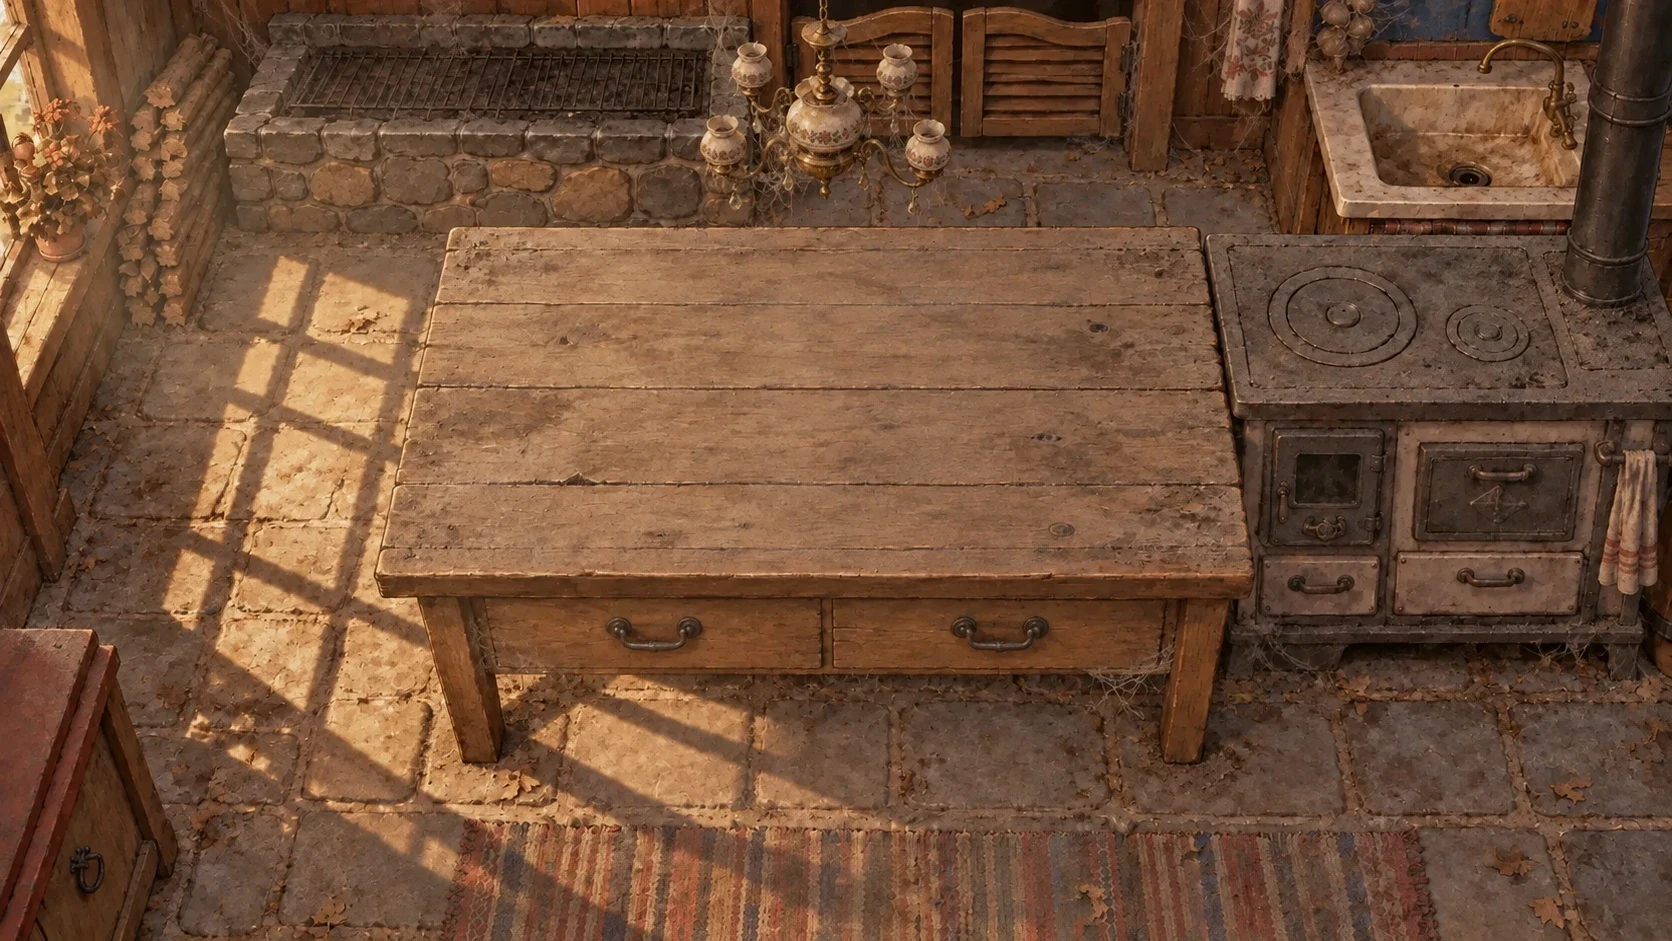
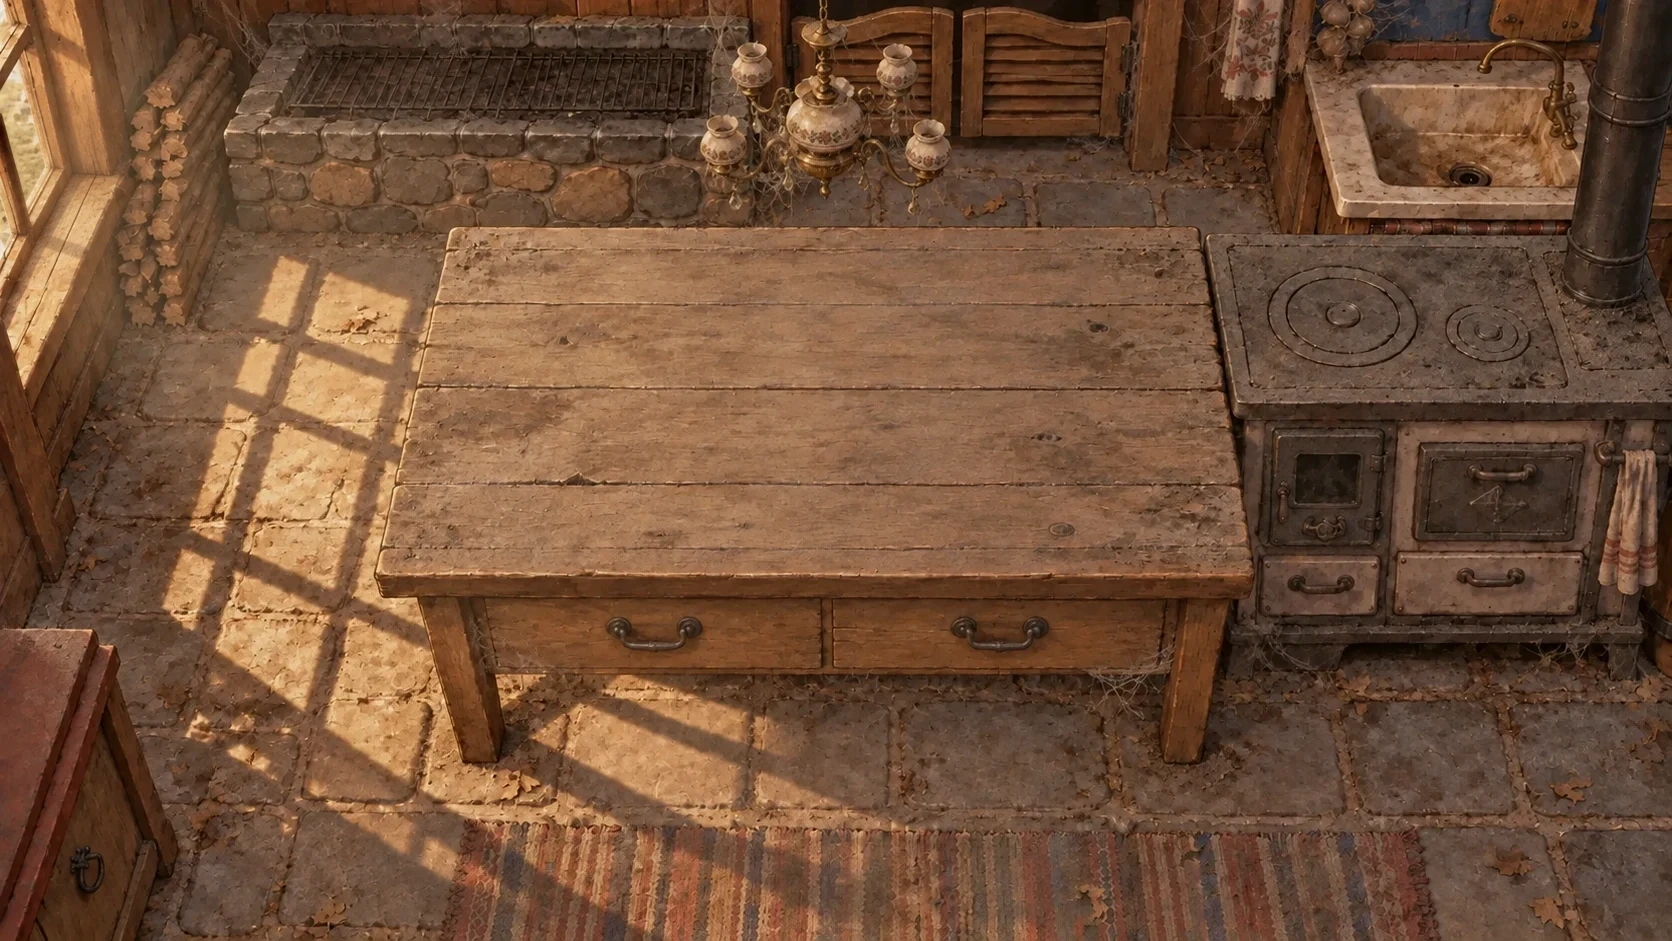
Prljava kuhinja: saksija sa cvecem uklonjena (isecak iz nove slike)
Claude-Session: https://claude.ai/code/session_01LvBFGzeMfHTaYJ7uVyqQ2u

Changed region(s): [[0.0, 0.0925, 0.0933, 0.3082]]

diff --git a/js/kitchen-clean.js b/js/kitchen-clean.js
@@ -54,7 +54,7 @@ var cv=document.createElement('canvas');cv.id='kitchenDirt';cv.width=W;cv.height
 cv.style.cssText='position:absolute;left:0;top:0;width:100%;height:100%;pointer-events:none;z-index:26';
 sc.insertBefore(cv,sc.firstChild);
 var g=cv.getContext('2d'),img=new Image(),ready=false,dirty=true;
-img.onload=function(){ready=true;dirty=true;draw();};img.src='assets/kitchen/prljava.webp?v=1';
+img.onload=function(){ready=true;dirty=true;draw();};img.src='assets/kitchen/prljava.webp?v=2';
 var mk=document.createElement('canvas');mk.width=GW;mk.height=GH;var mg=mk.getContext('2d'),md=mg.createImageData(GW,GH);
 function draw(){
   if(!ready||!dirty)return;dirty=false;

diff --git a/index.html b/index.html
@@ -207,7 +207,7 @@
 <script src="js/board-shadow-tool.js?v=2"></script>
 <script src="js/game.js?v=3.315"></script>
 <script src="js/meat-menu.js?v=1"></script>
-<script src="js/kitchen-clean.js?v=6126"></script>
+<script src="js/kitchen-clean.js?v=6127"></script>
 <script src="js/oven-items-tool.js?v=4"></script>
 <script src="js/tools-switch.js?v=4"></script>
 <script src="js/vessel-dirt.js?v=8"></script>

diff --git a/NOTES.md b/NOTES.md
@@ -1383,3 +1383,4 @@ Završi dan (`js/day-report.js`, `CooksterDayReport`): dugme „🌙 Završi dan
 - 10.11.: prasina metle realisticnija (kitchen-clean v6126): oblak od vise mekih mrlja koje se razilaze i vrtlože + sitne cestice (trunje) koje odlete iza metle i padaju.
 - 10.11.: komsinica susret_2 tekst promenjen: 'Tako smo mi, dete, još dok je Savka bila tu: tek kucnemo, a ona nam već sprema.' (neighbor v16). Glas susret_2.mp3 je jos stari: Milos snima novi, zameniti fajl assets/audio/komsinica/susret_2.mp3.
 - 10.11.: novac na dasci prozora je prava slika (assets/effects/novac.webp, ChatGPT, 360x246, providna) umesto SVG-a (neighbor v17); sirina 86 px na dasci.
+- 10.11.: prljava.webp (prljava kuhinja): saksija sa cvecem zamenjena isecakom iz nove slike (ChatGPT, pokriva original (0,0)-(510,649), razmera .4589, bez pomeraja); isecak oko saksije sa mekim ivicama (blur 5) i uskladjenim bojama po prstenu oko isecka; sve ostalo je original. kitchen-clean.js v6127 (prljava.webp?v=2). Original sacuvan samo u scratchpadu (git istorija ima staru verziju).
